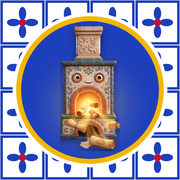
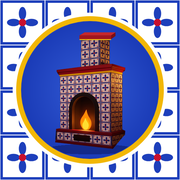
Печь из мультика вместо печи с лицом: страница установки и иконки PWA (откат: git revert этого коммита)

Changed region(s): [[0.2778, 0.1389, 0.7222, 0.8611]]

diff --git a/ustanovit/index.html b/ustanovit/index.html
@@ -61,7 +61,7 @@ h1{font:400 clamp(40px,11vw,56px)/1 Underdog,serif;overflow-wrap:anywhere;max-wi
 <body>
 <div class="tiles"></div>
 <main>
-<img class="logo" src="/ustanovit/img/icon-etalon-192.png" alt="Тендер-Печь">
+<img class="logo" src="/ustanovit/img/icon-multik-192.png" alt="Тендер-Печь">
 <h1>Тендер-Печь</h1>
 
 <nav class="os" id="os" aria-label="Выберите устройство">
@@ -98,7 +98,7 @@ h1{font:400 clamp(40px,11vw,56px)/1 Underdog,serif;overflow-wrap:anywhere;max-wi
 </section>
 <p class="mgr"><b>Менеджерам:</b> поставьте иконку, откройте её и на экране «Вход» вставьте свою личную ссылку целиком. Дальше иконка открывает вашу смету сразу. На Android и компьютере можно и так: откройте личную ссылку в браузере и поставьте иконку оттуда. На iPhone этот путь не работает, там вход в иконке всегда делается заново. Чтобы сменить ссылку, нажмите «Другая ссылка» в шапке сметы.</p>
 </main>
-<div class="scene"><img class="p" src="/ustanovit/img/pech-etalon.webp" alt=""><img class="k" src="/ustanovit/img/kot-sidit.webp" alt=""></div>
+<div class="scene"><img class="p" src="/ustanovit/img/pech-multik.webp" alt=""><img class="k" src="/ustanovit/img/kot-sidit.webp" alt=""></div>
 <script>
 (function(){
 var q=new URLSearchParams(location.search), ua=navigator.userAgent||'';
